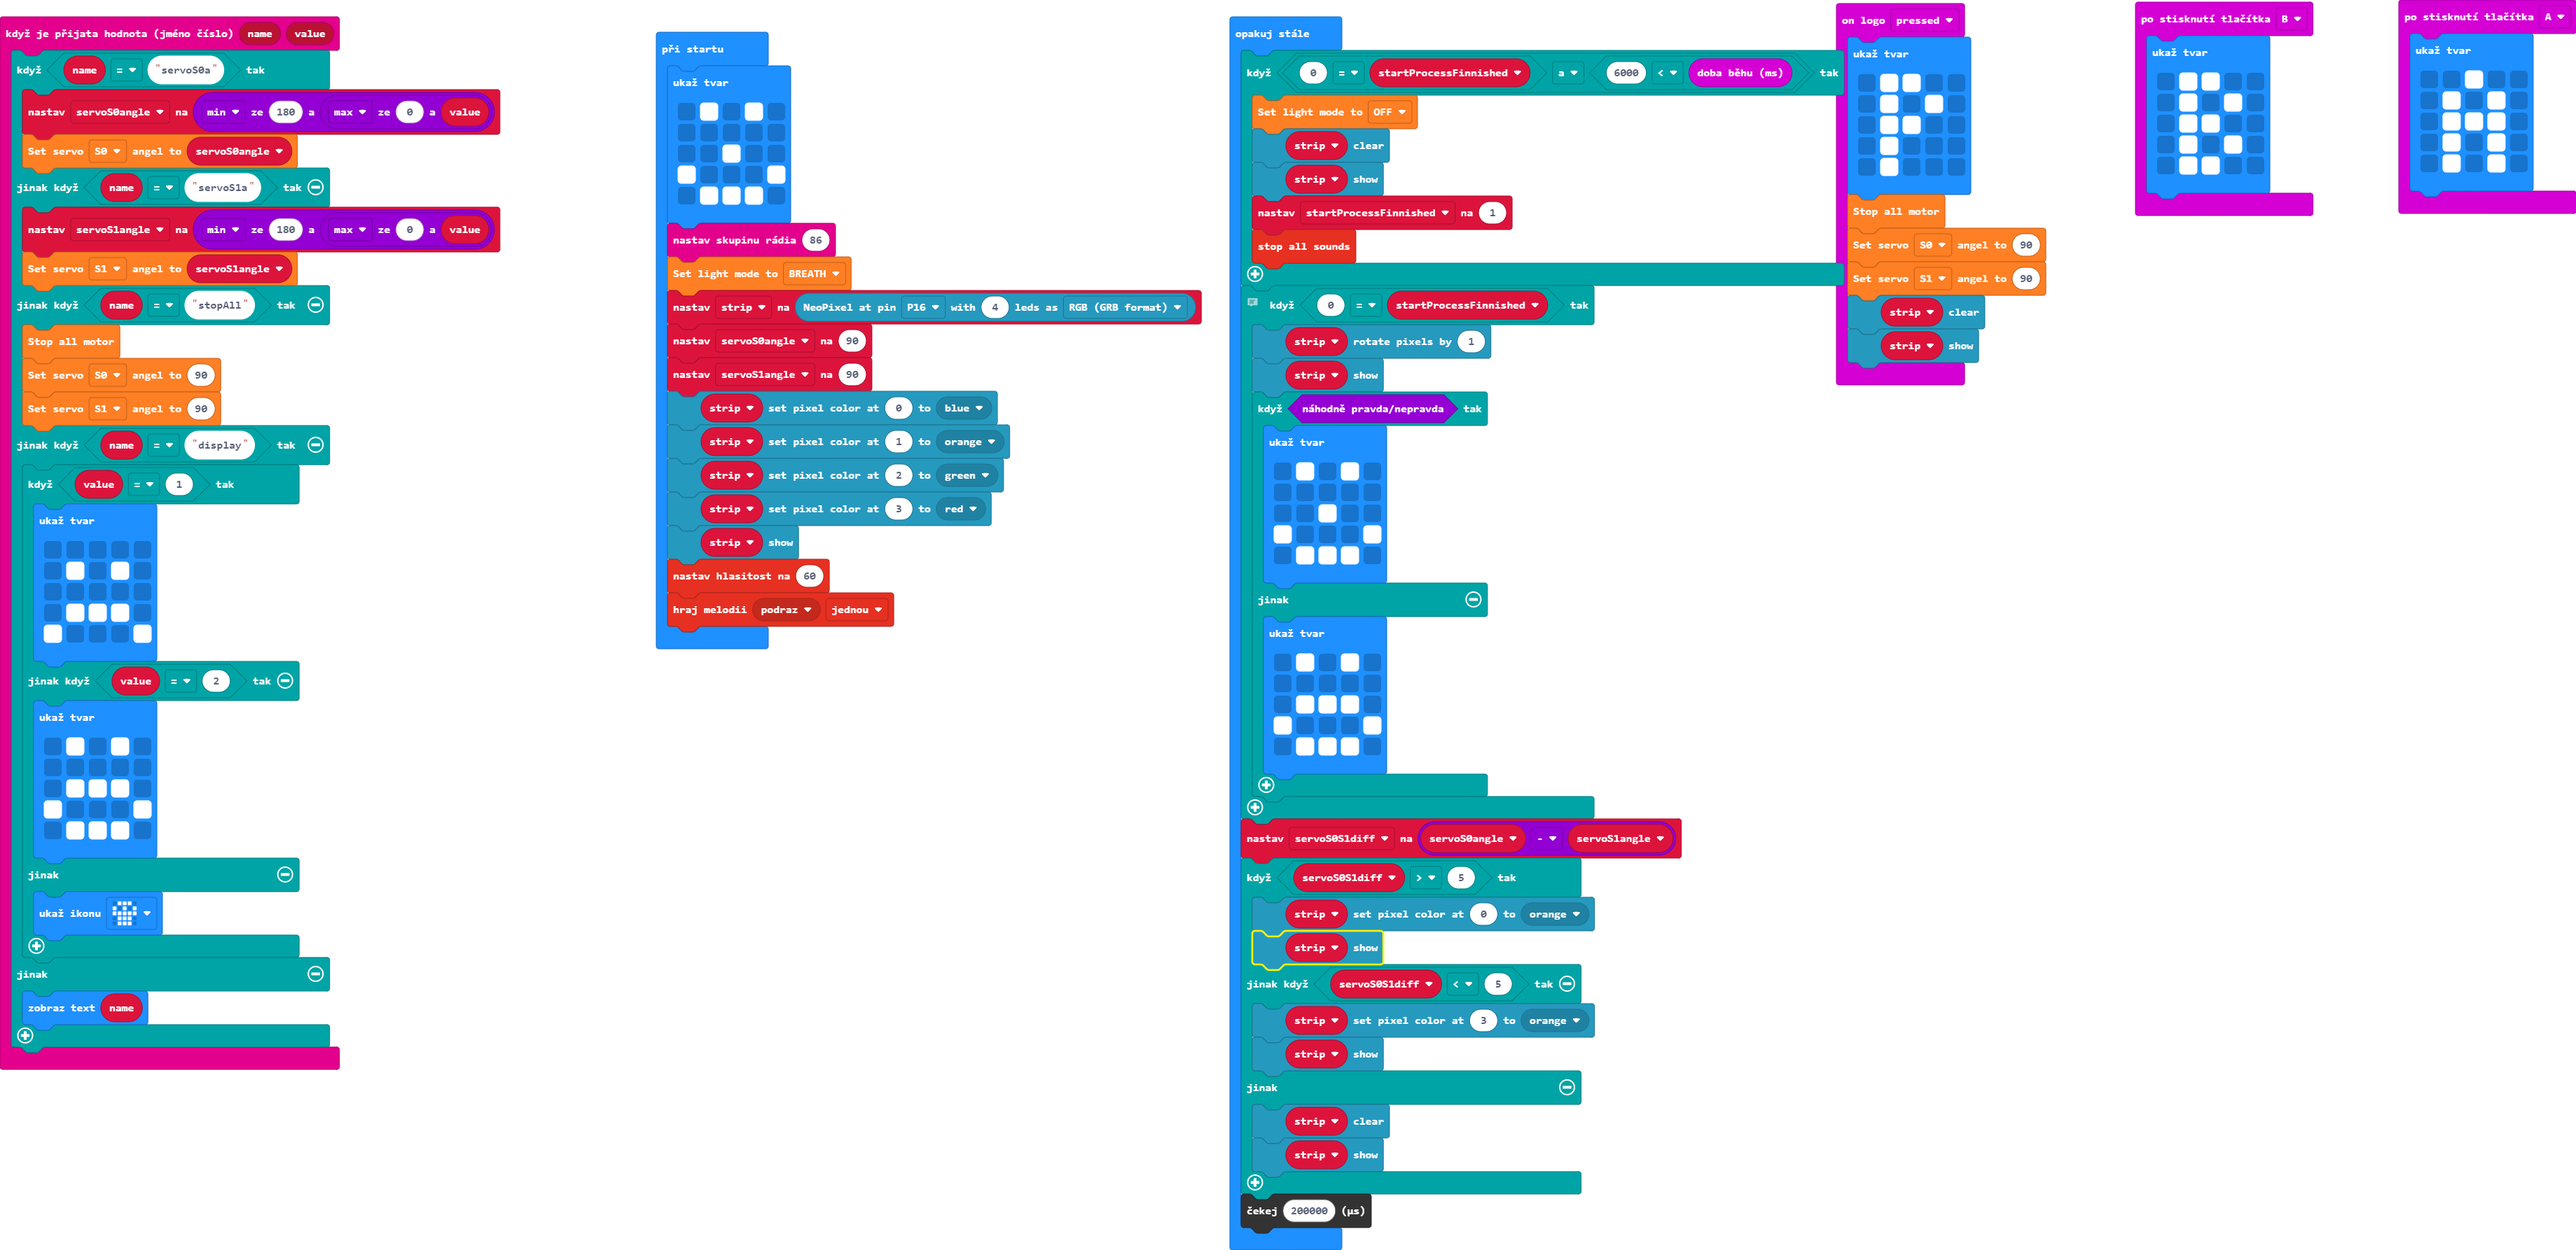
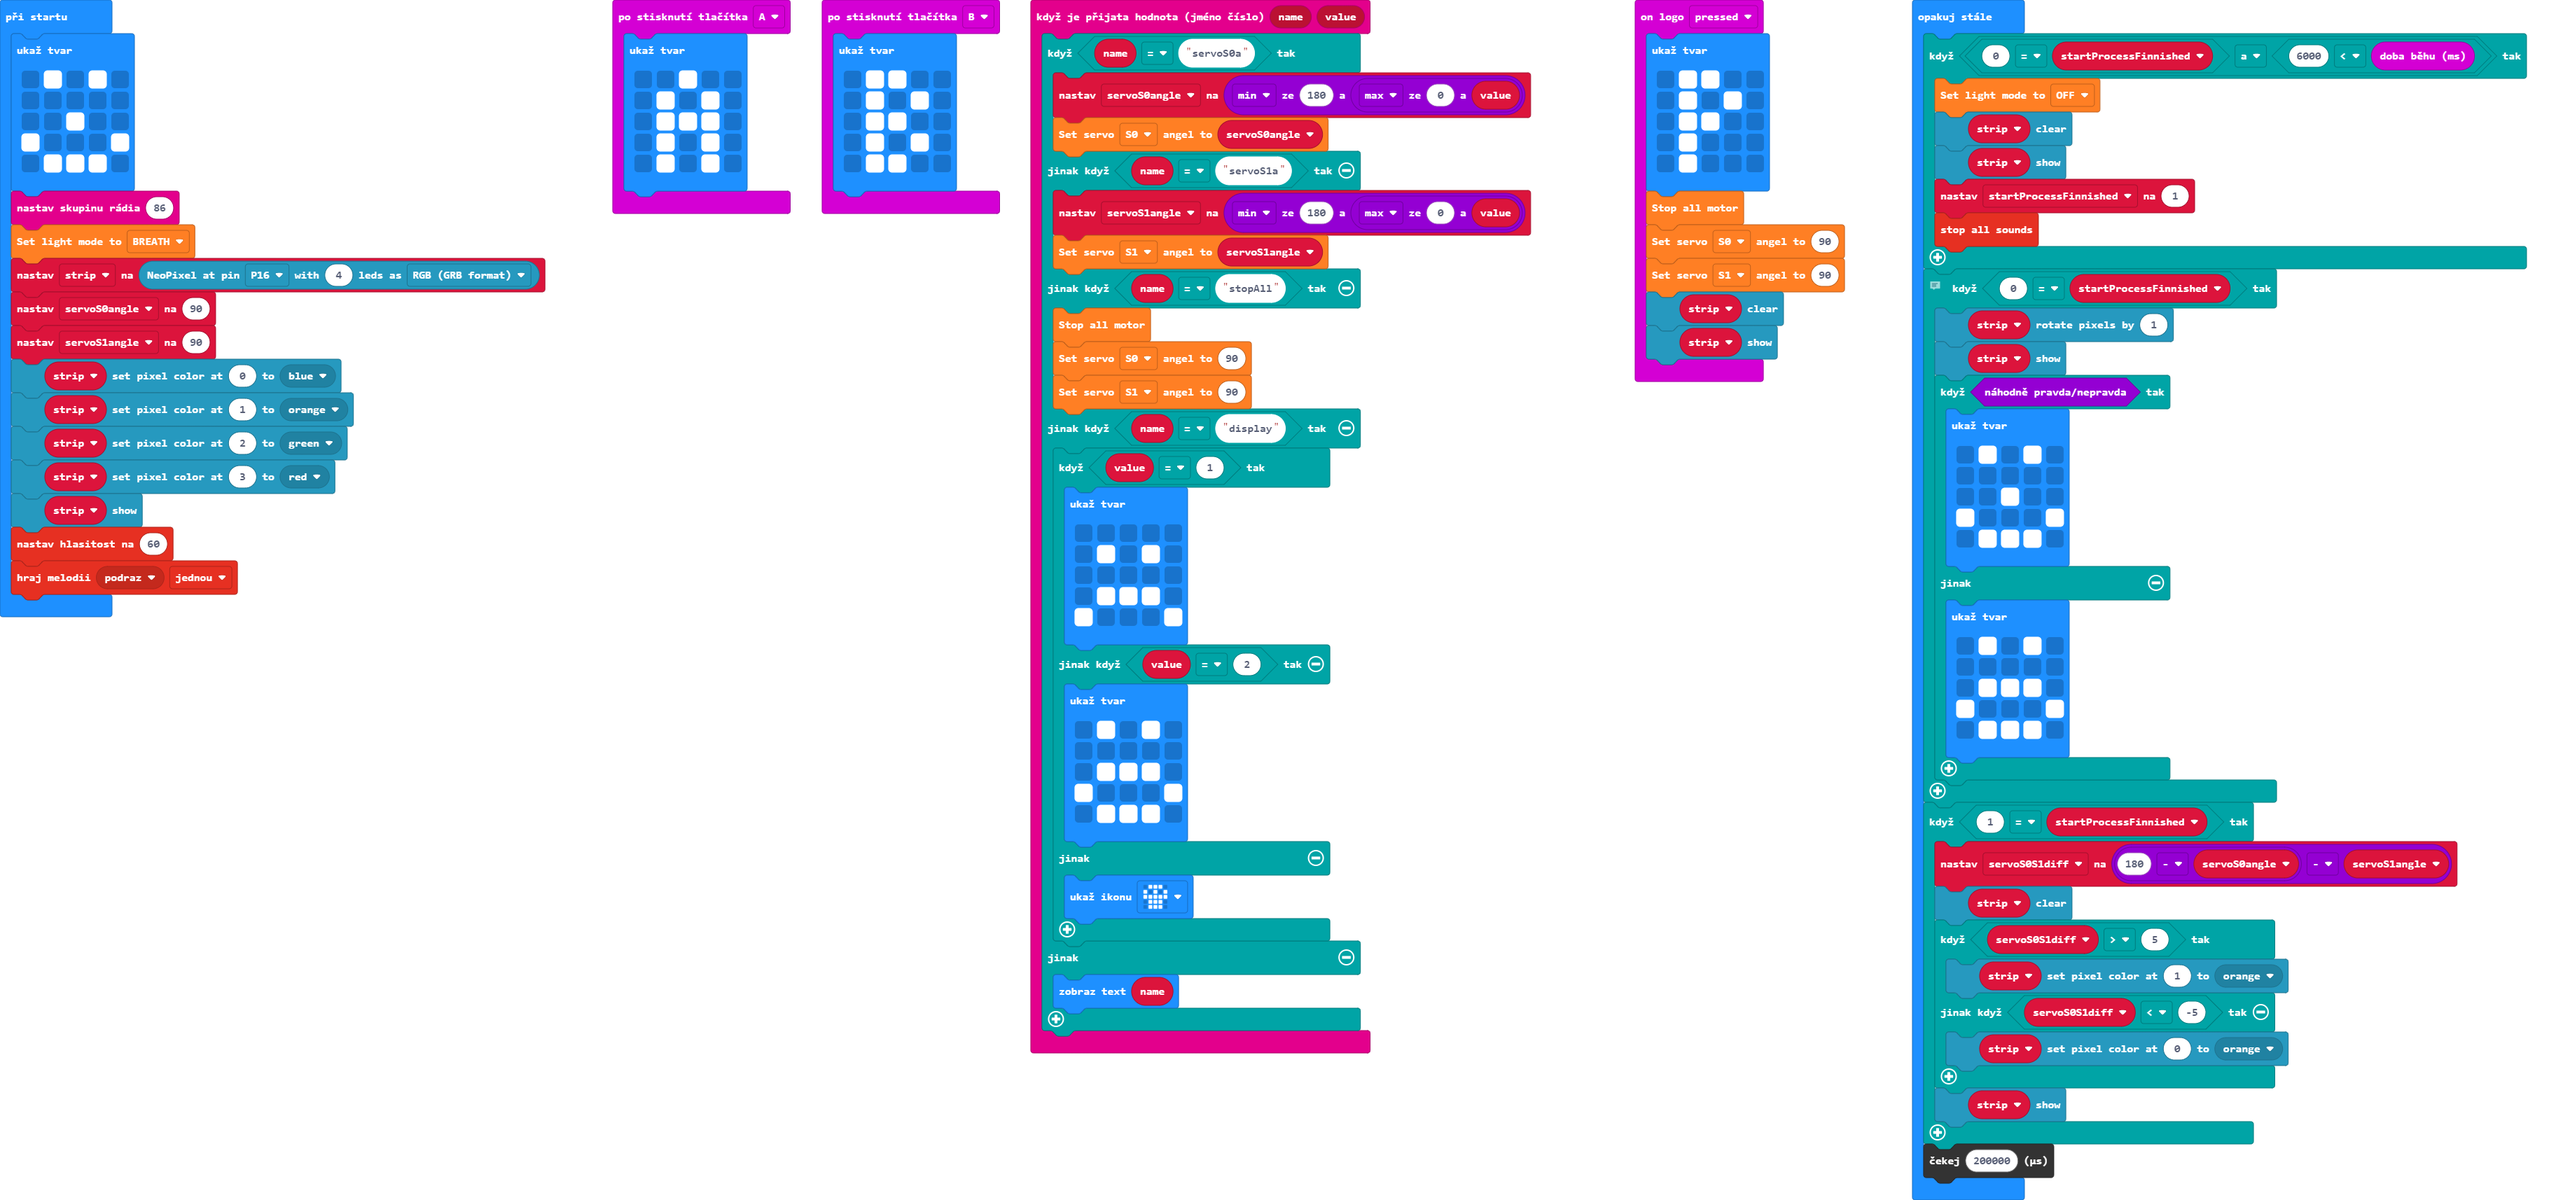
Update main.blocks, main.ts

diff --git a/main.ts b/main.ts
@@ -119,15 +119,14 @@ basic.forever(function () {
                 `)
         }
     }
-    servoS0S1diff = servoS0angle - servoS1angle
-    if (servoS0S1diff > 5) {
-        strip.setPixelColor(0, neopixel.colors(NeoPixelColors.Orange))
-        strip.show()
-    } else if (servoS0S1diff < 5) {
-        strip.setPixelColor(3, neopixel.colors(NeoPixelColors.Orange))
-        strip.show()
-    } else {
+    if (1 == startProcessFinnished) {
+        servoS0S1diff = 180 - servoS0angle - servoS1angle
         strip.clear()
+        if (servoS0S1diff > 5) {
+            strip.setPixelColor(1, neopixel.colors(NeoPixelColors.Orange))
+        } else if (servoS0S1diff < -5) {
+            strip.setPixelColor(0, neopixel.colors(NeoPixelColors.Orange))
+        }
         strip.show()
     }
     control.waitMicros(200000)
